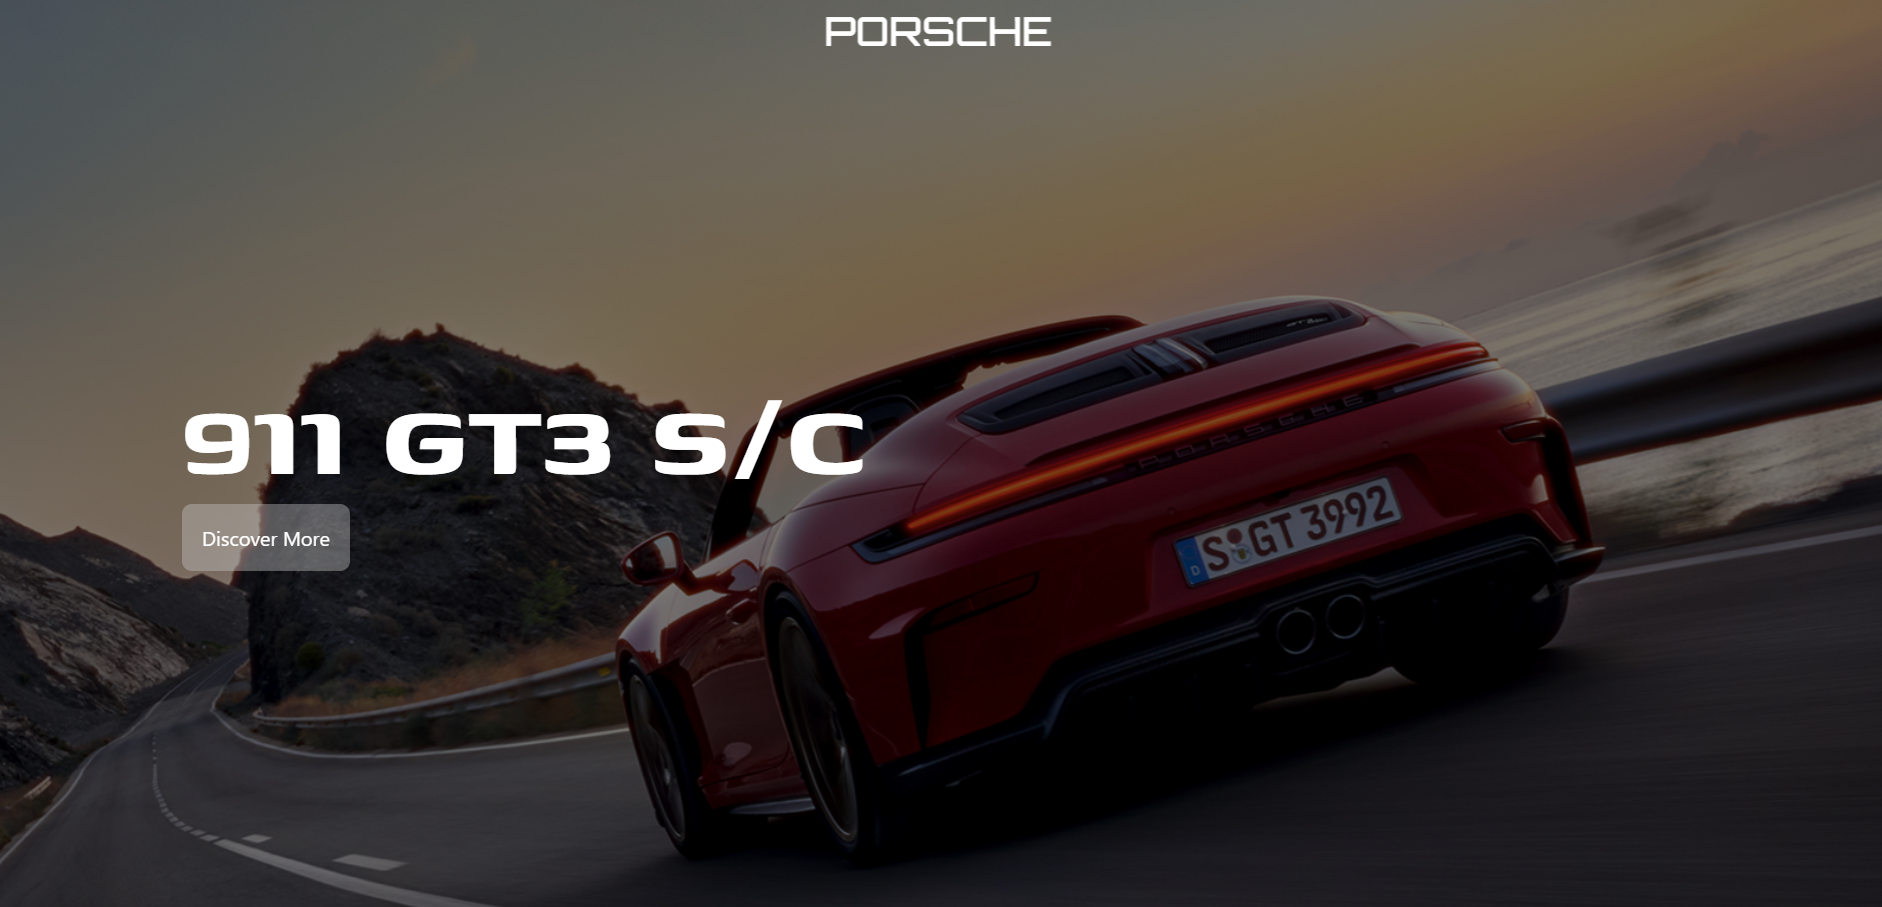
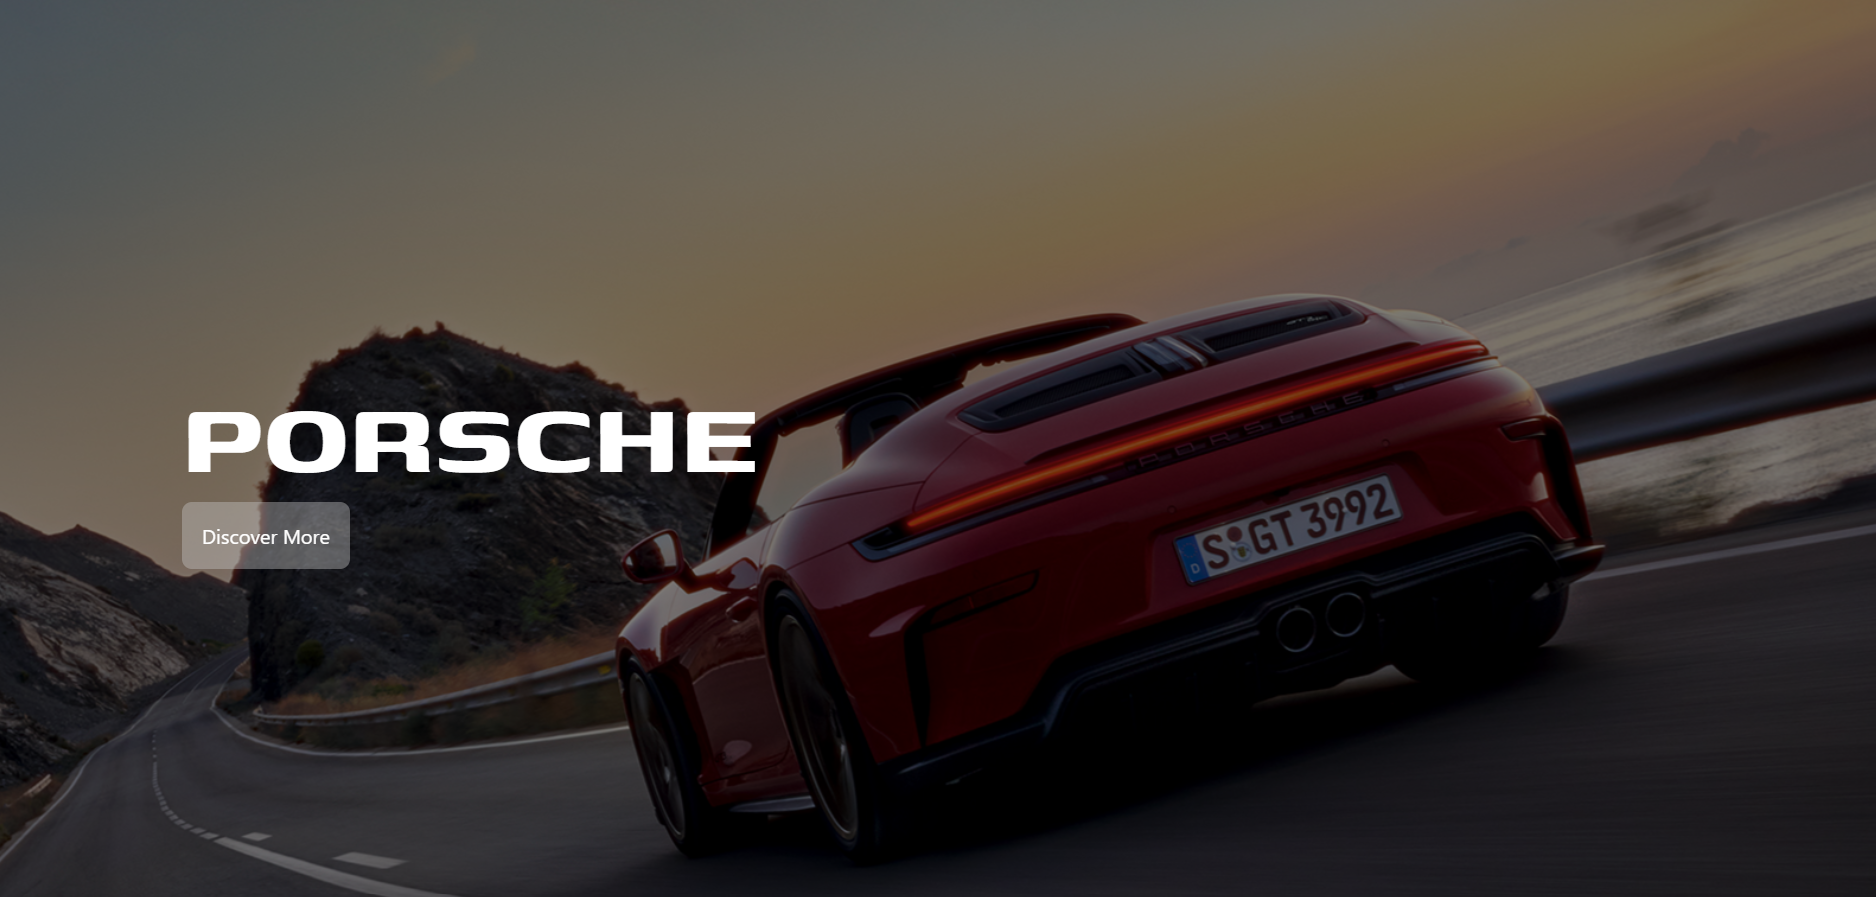
Project addition

diff --git a/src/data/portfolioData.js b/src/data/portfolioData.js
@@ -83,6 +83,18 @@ export const projectsData = [
     liveUrl: null
   },
   {
+    id: "porsche",
+    title: "Porsche",
+    subtitle: "A Porsche showcase website",
+    shortDesc: "Immersive automotive web platform inspired by Porsche's minimalist digital experience. Built using Laravel, PHP and PostgreSQL.",
+    image: "/images/Porsche.png",
+    imageClass: "object-cover object-center",
+    tech: ["Laravel", "PHP", "PostgreSQL", "Bootstrap", "JavaScript", "HTML5/CSS3"],
+    status: "Source Available",
+    githubUrl: "https://github.com/Abhishek-S-netizen/porsche-inspired-cms",
+    liveUrl: null
+  },
+  {
     id: "cinemax",
     title: "CineMax",
     subtitle: "Concurrent Movie Booking System",
@@ -94,19 +106,6 @@ export const projectsData = [
     githubUrl: "https://github.com/Abhishek-S-netizen/movie-ticket-booking-system",
     liveUrl: null
   },
-  /* {
-    id: "porsche",
-    title: "Porsche 911 GT3 S/C",
-    subtitle: "Porsche Digital Experience",
-    shortDesc: "Immersive automotive web platform inspired by Porsche's minimalist digital experience.",
-    fullDesc: "A Porsche-inspired web platform built using Laravel, PHP, PostgreSQL, and Cloudinary. The project combines dynamic vehicle content, custom content management, and immersive frontend animations to recreate selected aspects of the Porsche digital experience. Developed as a personal portfolio project inspired by the official Porsche website, it showcases both modern frontend development and scalable backend architecture.",
-    image: "/images/Porsche.png",
-    imageClass: "object-cover object-[82%_center]",
-    tech: ["Laravel", "PHP", "PostgreSQL", "Cloudinary", "Animations"],
-    status: "Work in Progress",
-    githubUrl: "https://github.com",
-    liveUrl: null
-  }, */
   {
     id: "ppe-detection",
     title: "PPE Compliance Detection",
